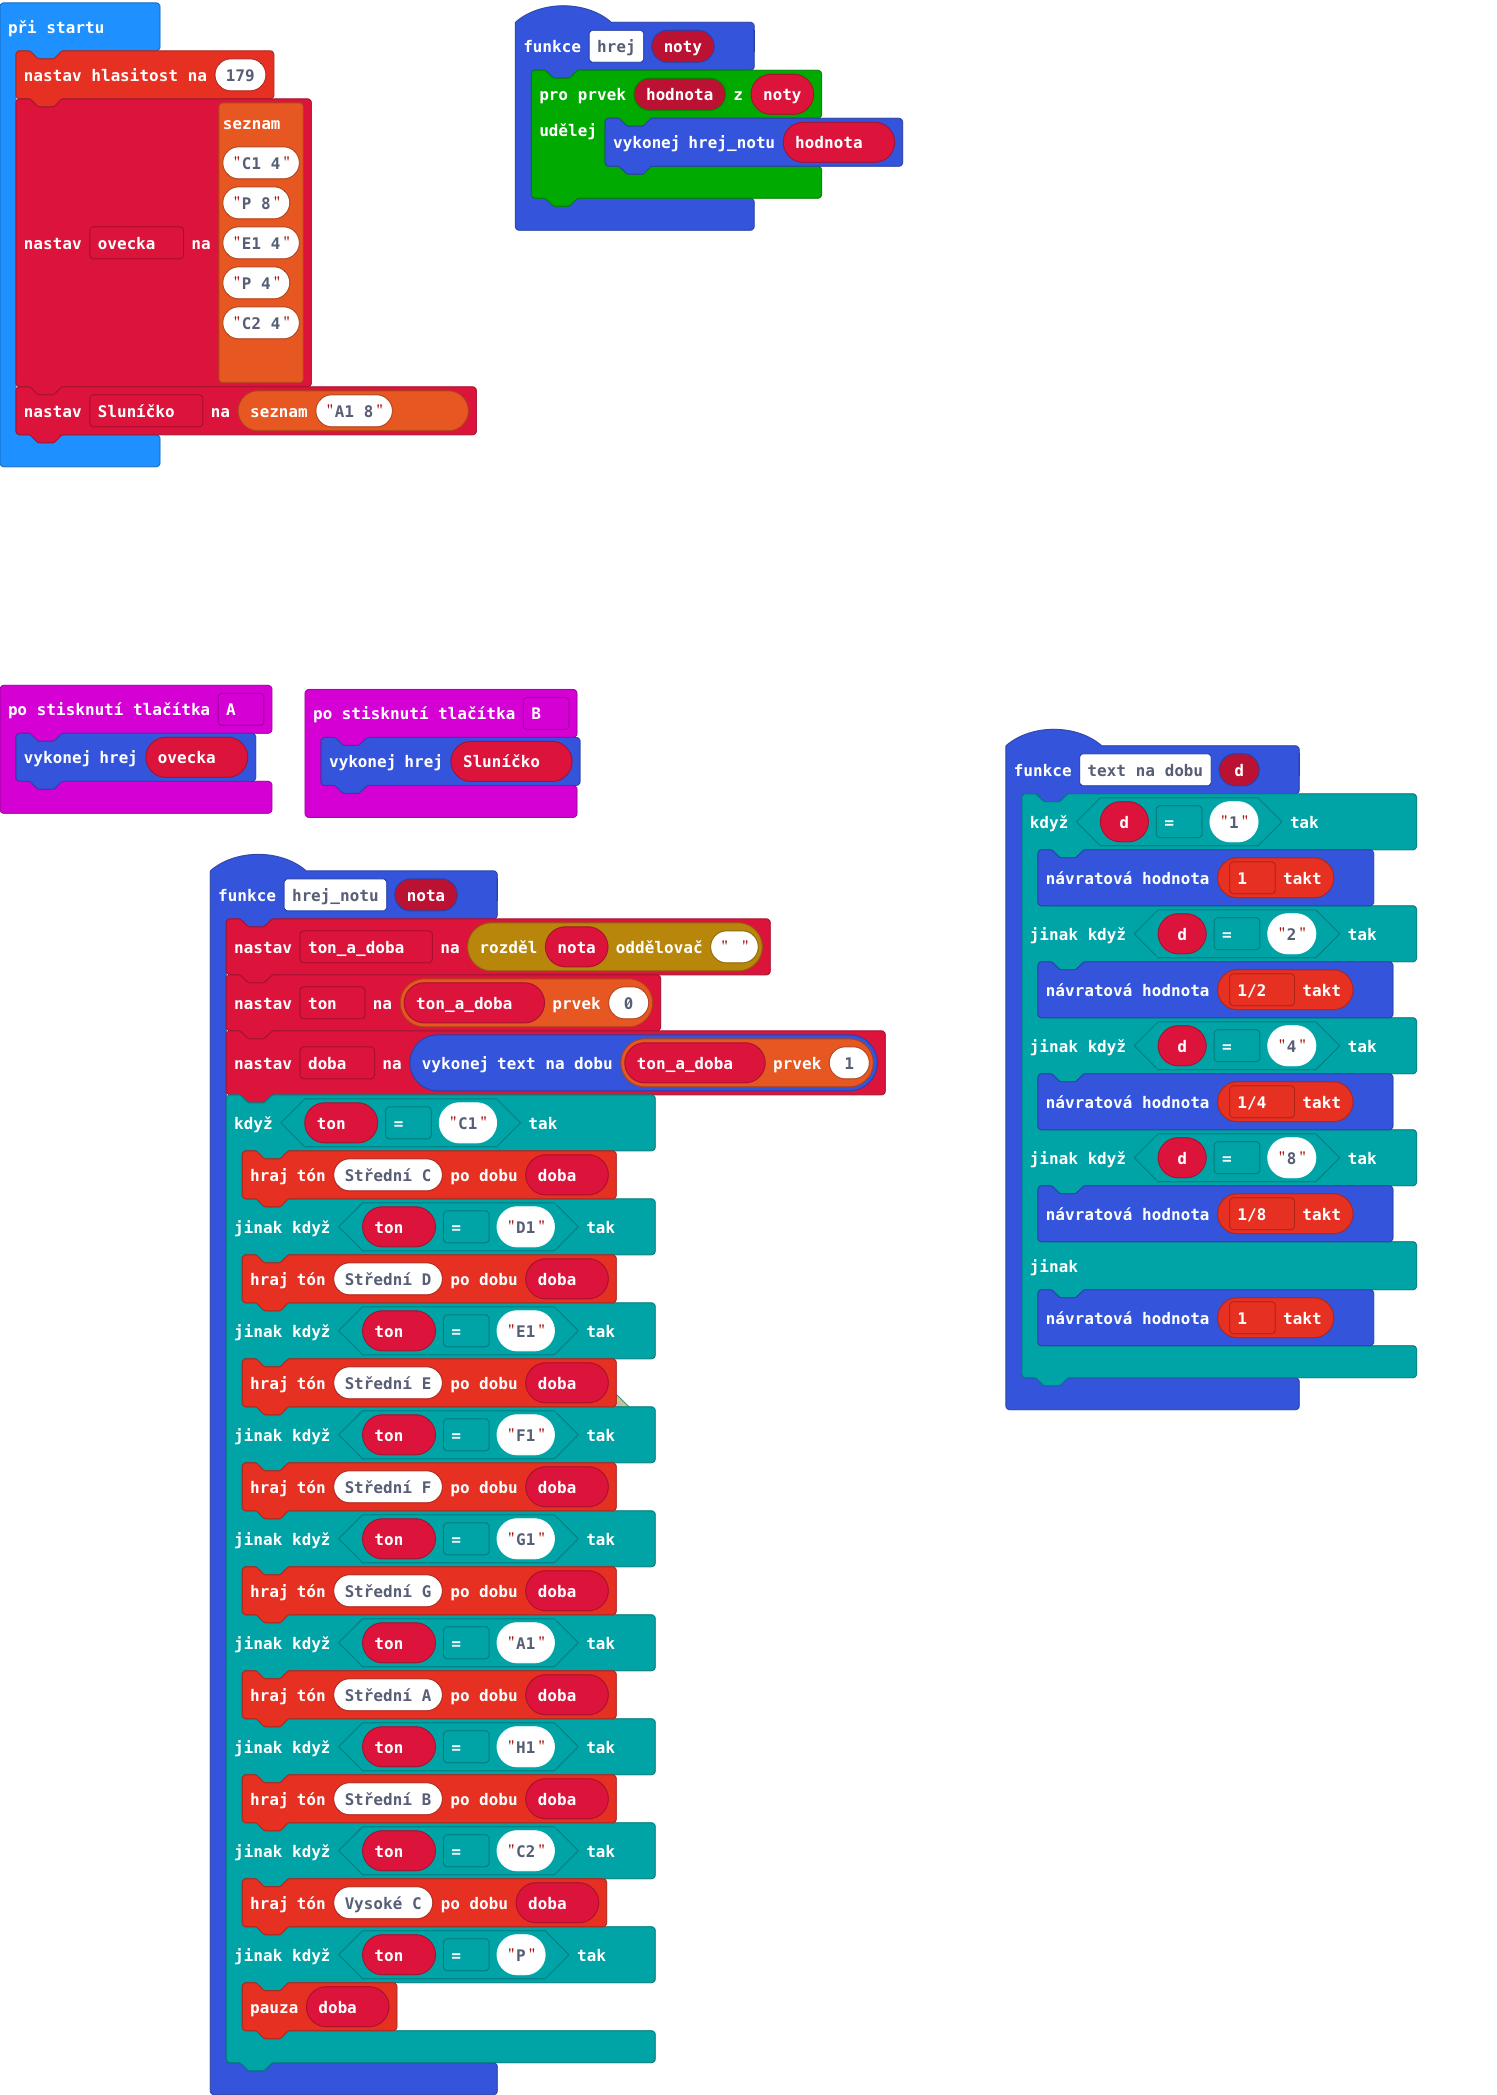
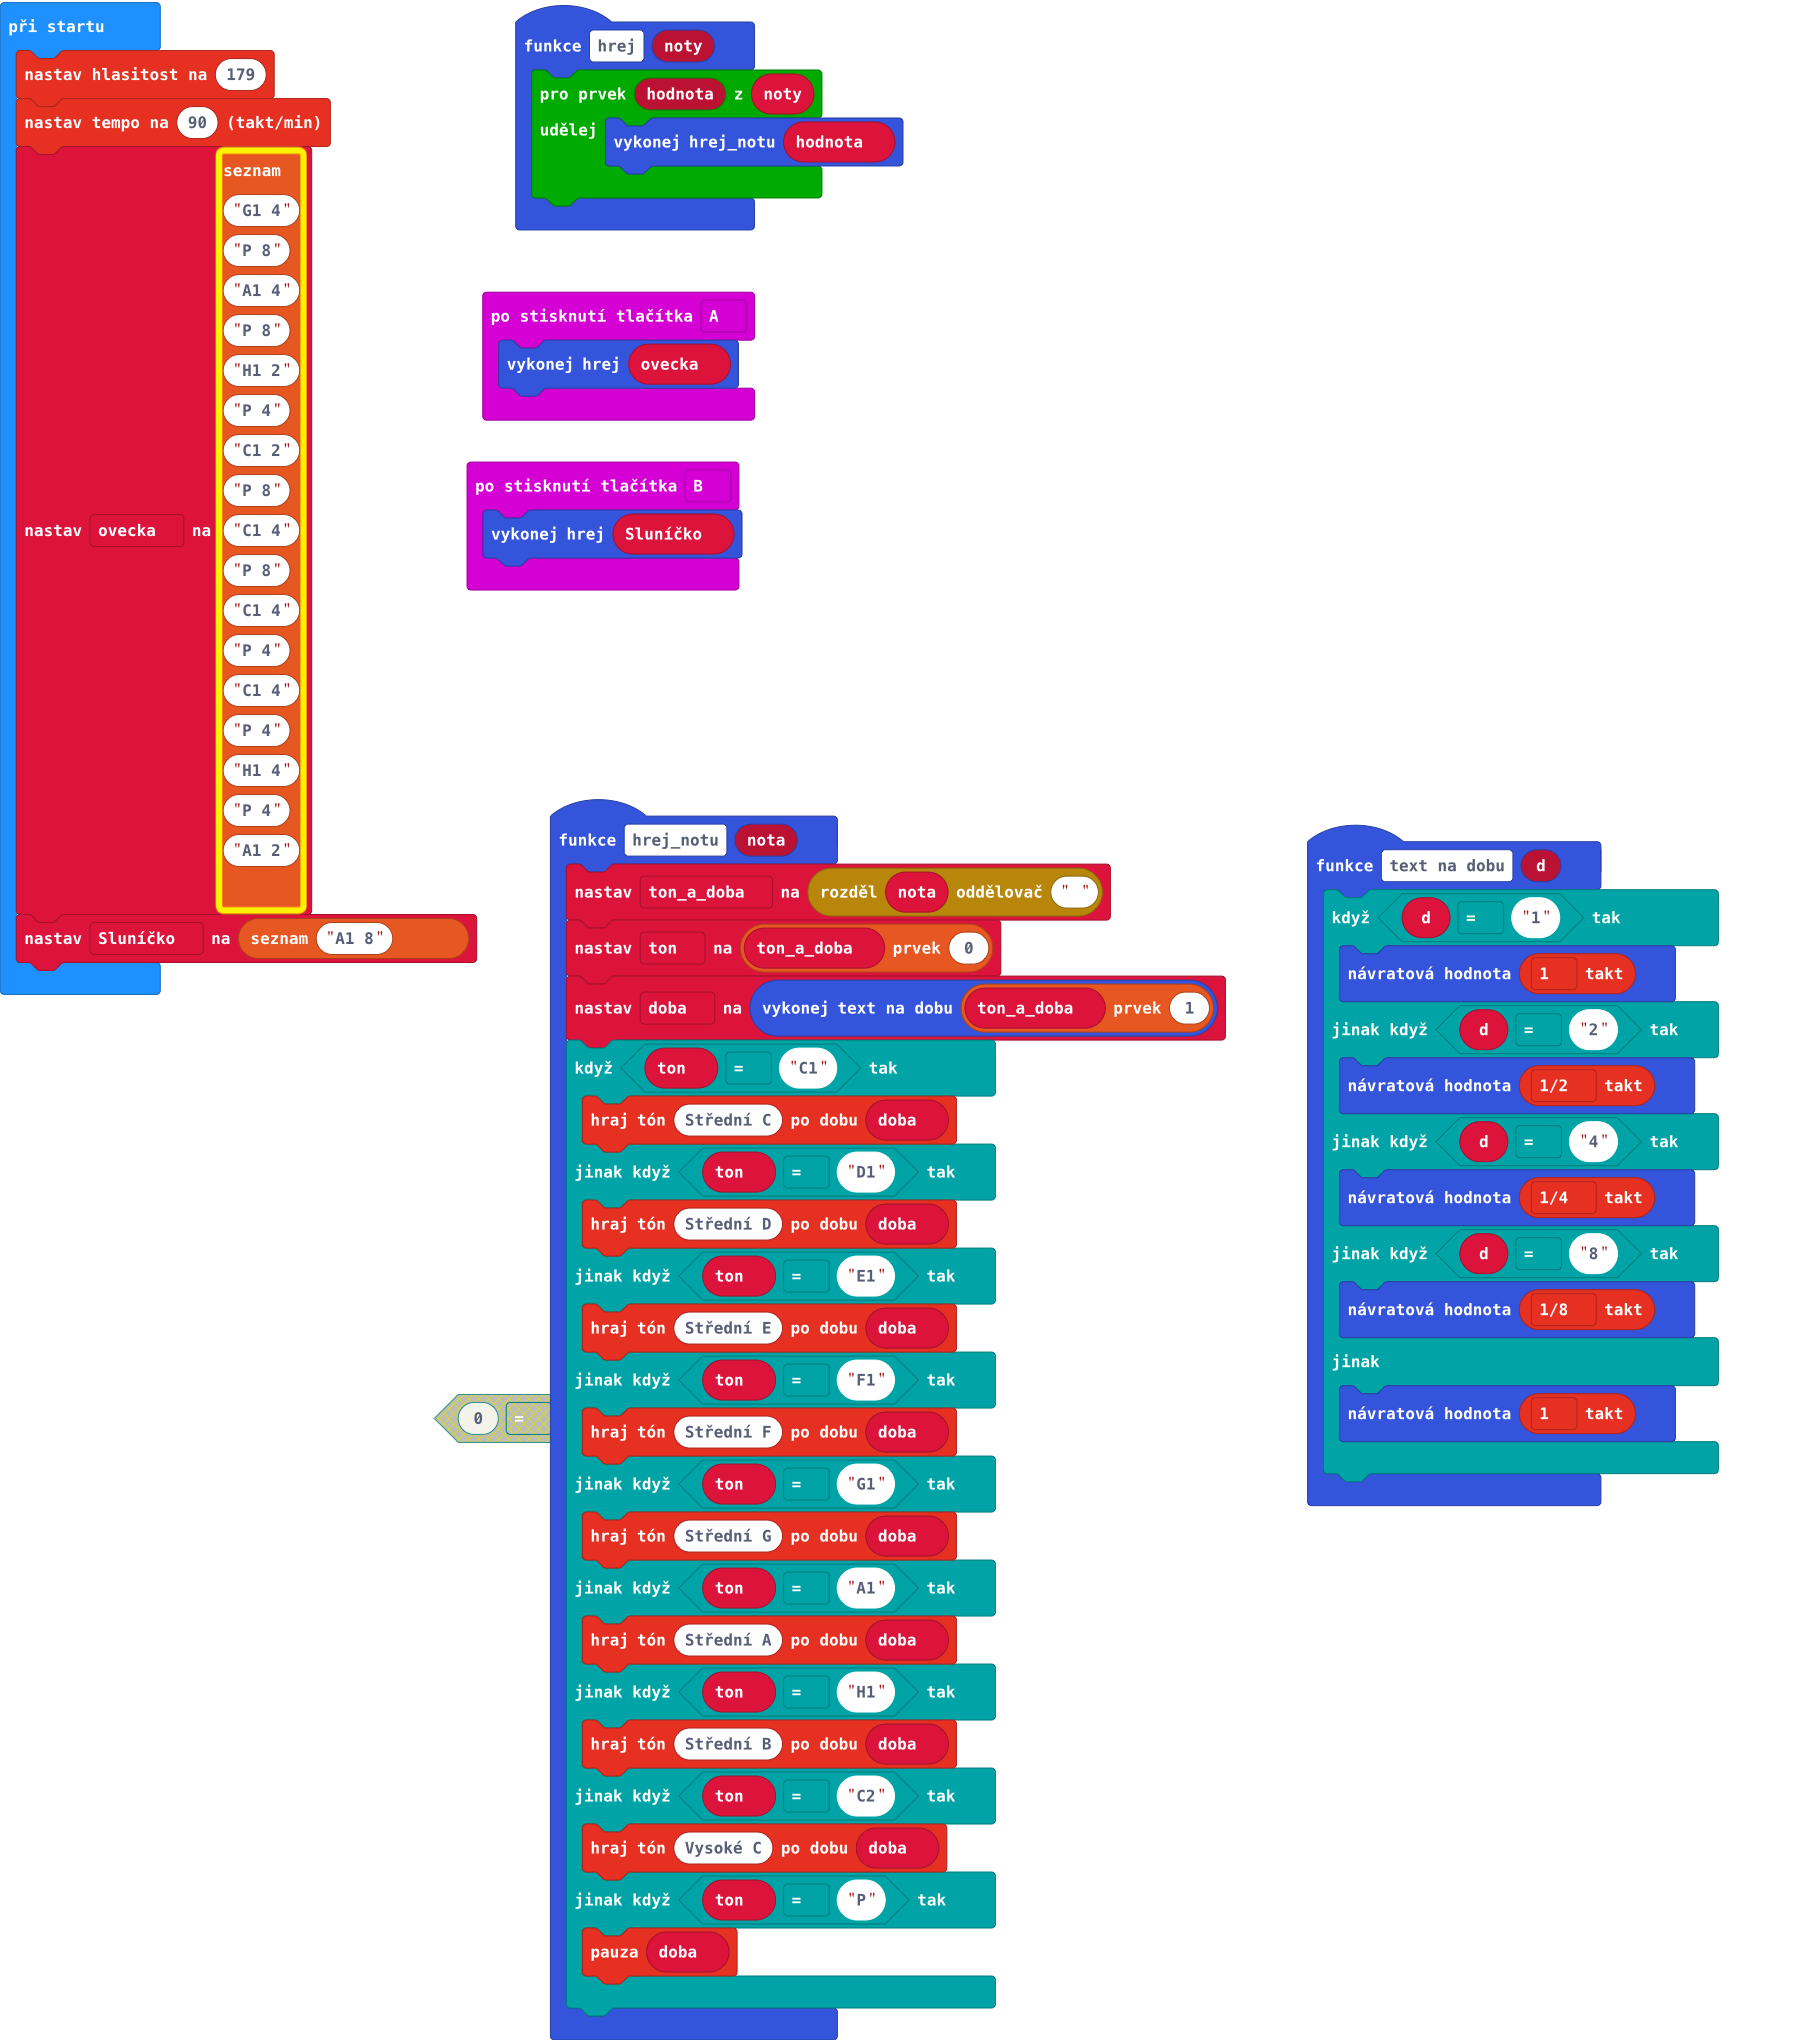
Aktualizovat main.blocks, main.ts

diff --git a/main.ts b/main.ts
@@ -52,11 +52,24 @@ let ton_a_doba: string[] = []
 let Sluníčko: string[] = []
 let ovecka: string[] = []
 music.setVolume(179)
+music.setTempo(90)
 ovecka = [
+"G1 4",
+"P 8",
+"A1 4",
+"P 8",
+"H1 2",
+"P 4",
+"C1 2",
+"P 8",
 "C1 4",
 "P 8",
-"E1 4",
+"C1 4",
 "P 4",
-"C2 4"
+"C1 4",
+"P 4",
+"H1 4",
+"P 4",
+"A1 2"
 ]
 Sluníčko = ["A1 8"]
